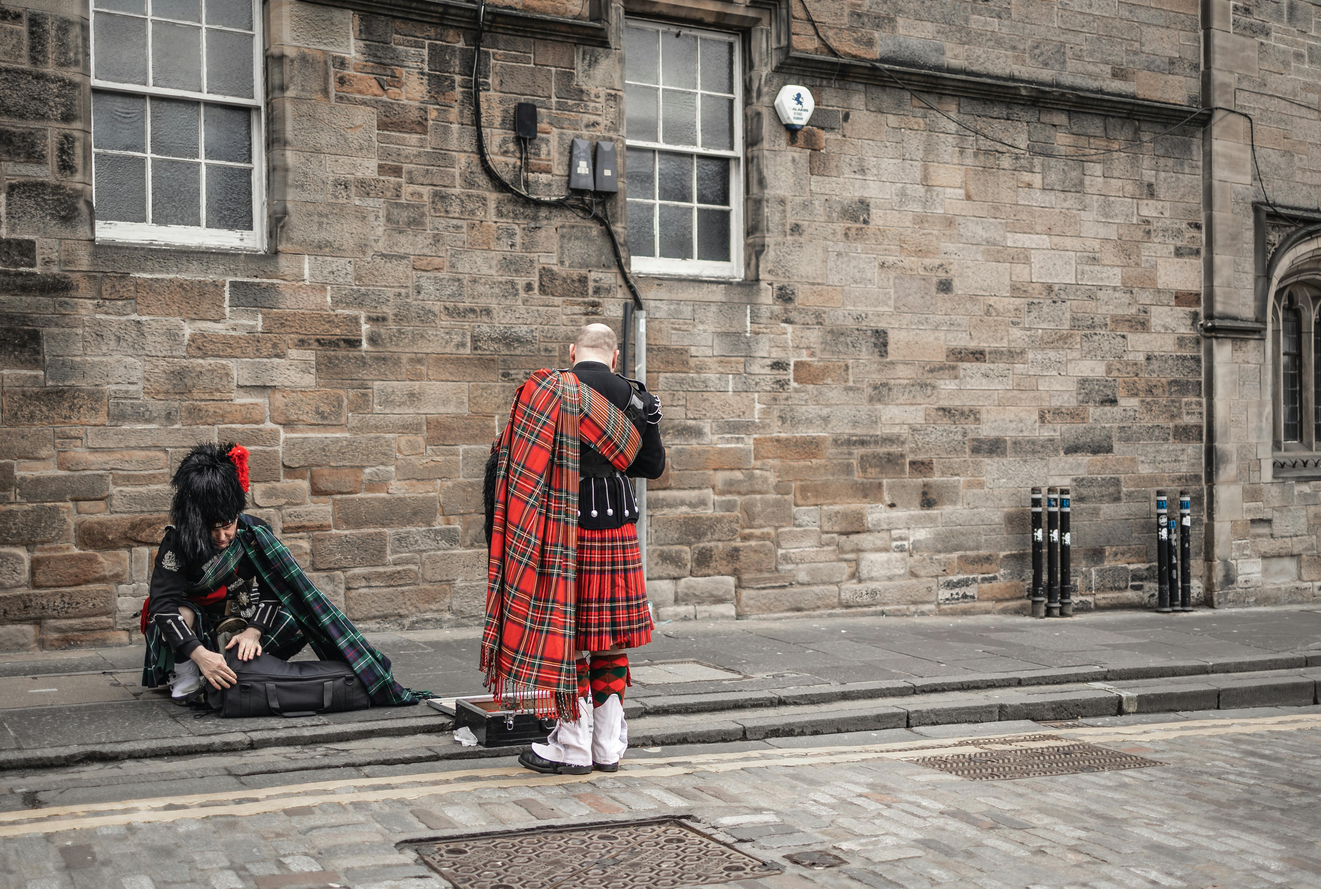
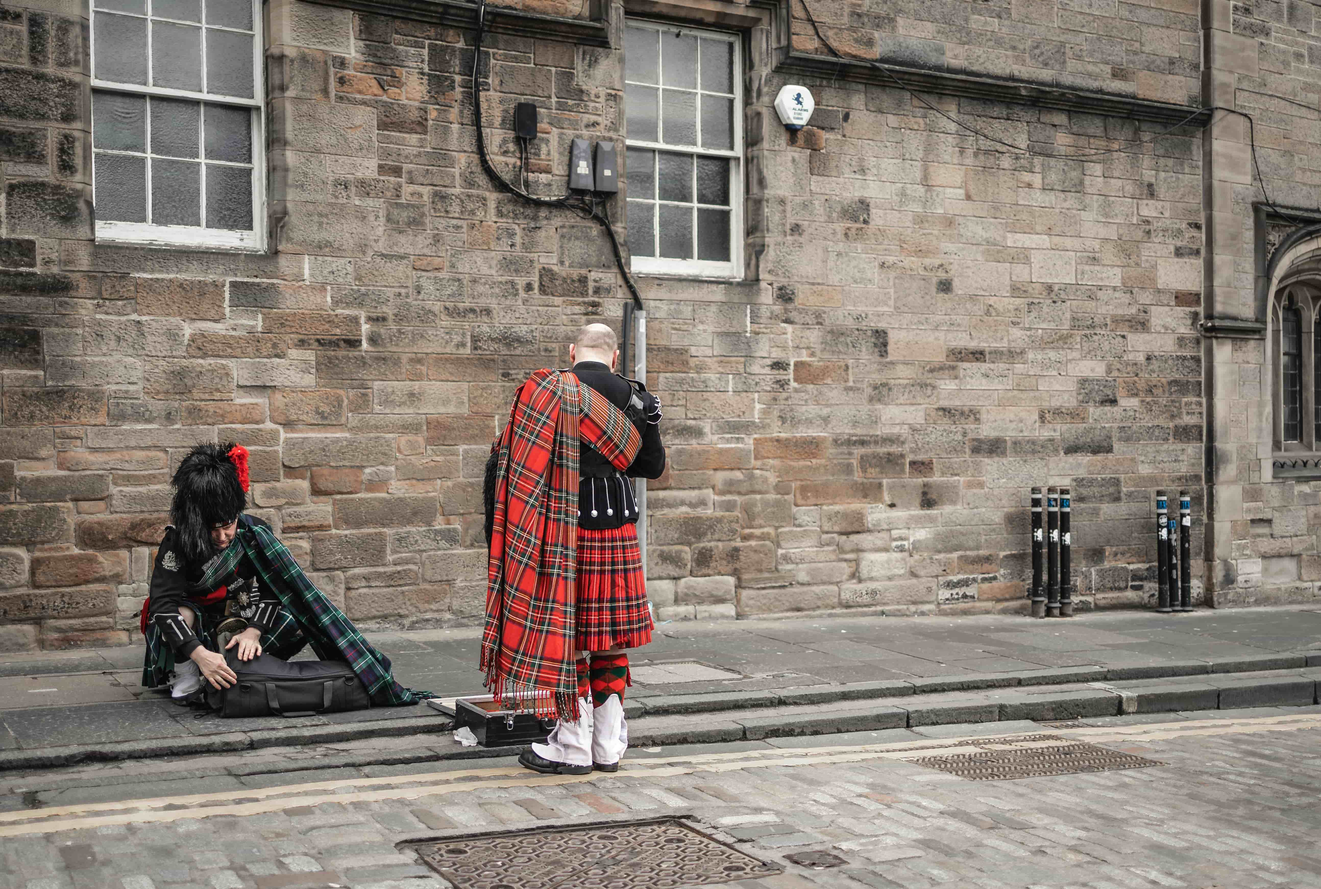
compressed imgs

diff --git a/assets/css/styles.css b/assets/css/styles.css
@@ -1427,7 +1427,7 @@ a {
 }
 
 .pricing-overlay {
-    background: url("../img/backgrounds/Tussenstukje1.png") no-repeat fixed center center / cover rgba(0, 0, 0, 0);
+    background: url("../img/backgrounds/Tussenstukje1.jpg") no-repeat fixed center center / cover rgba(0, 0, 0, 0);
     height: 100%;
     left: 0;
     position: absolute;
